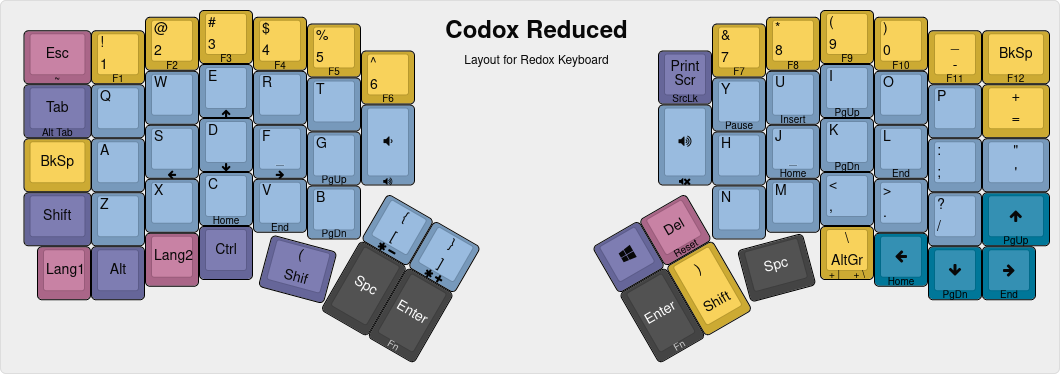
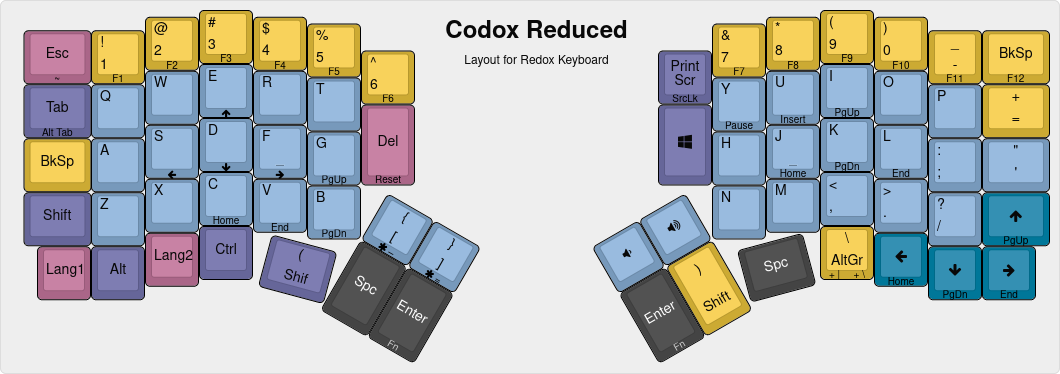
codox reduced:rearranging volume keys

diff --git a/Codox_Reduced/source_colemak/keymap.c b/Codox_Reduced/source_colemak/keymap.c
@@ -1,6 +1,21 @@
 #include QMK_KEYBOARD_H
 
+enum custom_keycodes {
+    MACRO_F3_G
+};
+
+bool process_record_user(uint16_t keycode, keyrecord_t * record) {
+    switch (keycode) {
+        case MACRO_F3_G:
+            if (record->event.pressed) {
+                SEND_STRING(SS_DOWN(X_F3) SS_DOWN(X_G) SS_UP(X_G) SS_UP(X_F3));
+            }
+            break;
+    }
+    return true;
+};
+
 const uint16_t PROGMEM keymaps[][MATRIX_ROWS][MATRIX_COLS] = {
-	[0] = LAYOUT(KC_GESC,KC_1,KC_2,KC_3,KC_4,KC_5,KC_7,KC_8,KC_9,KC_0,KC_MINS,KC_BSPC,KC_TAB,KC_Q,KC_W,KC_F,KC_P,KC_G,KC_6,KC_PSCR,KC_J,KC_L,KC_U,KC_Y,KC_SCLN,KC_EQL,KC_BSPC,KC_A,KC_R,KC_S,KC_T,KC_D,KC_VOLD,KC_VOLU,KC_H,KC_N,KC_E,KC_I,KC_O,KC_QUOT,KC_LSFT,KC_Z,KC_X,KC_C,KC_V,KC_B,KC_LBRC,KC_RBRC,KC_LGUI,KC_DEL,KC_K,KC_M,KC_COMM,KC_DOT,KC_SLSH,KC_UP,KC_HAEN,KC_LALT,LCTL(KC_LGUI),KC_LCTL,KC_LSPO,KC_SPC,LT(1,KC_ENT),LT(1,KC_ENT),KC_RSPC,KC_SPC,RALT_T(KC_BSLS),KC_LEFT,KC_DOWN,KC_RGHT),
-	[1] = LAYOUT(KC_GRV,KC_F1,KC_F2,KC_F3,KC_F4,KC_F5,KC_F7,KC_F8,KC_F9,KC_F10,KC_F11,KC_F12,LALT_T(KC_TAB),KC_NO,KC_DEL,KC_UP,LCTL(KC_E),KC_NO,KC_F6,KC_SLCK,KC_PAUS,KC_INS,KC_PGUP,KC_NO,KC_NO,KC_BSLS,KC_TRNS,KC_NO,KC_LEFT,KC_DOWN,KC_RGHT,KC_PGUP,KC_VOLU,KC_MUTE,KC_NO,KC_HOME,KC_PGDN,KC_END,KC_NO,KC_TRNS,KC_TRNS,KC_NO,KC_NO,KC_HOME,KC_END,KC_PGDN,LCTL(KC_MINS),LCTL(KC_EQL),KC_TRNS,RESET,KC_NO,KC_NO,KC_TRNS,KC_TRNS,KC_TRNS,KC_PGUP,KC_TRNS,KC_TRNS,KC_TRNS,KC_TRNS,KC_TRNS,KC_TRNS,KC_TRNS,KC_TRNS,KC_TRNS,KC_TRNS,RALT(KC_BSLS),KC_HOME,KC_PGDN,KC_END)
+    [0] = LAYOUT(KC_GESC,KC_1,KC_2,KC_3,KC_4,KC_5,KC_7,KC_8,KC_9,KC_0,KC_MINS,KC_BSPC,KC_TAB,KC_Q,KC_W,KC_F,KC_P,KC_G,KC_6,KC_PSCR,KC_J,KC_L,KC_U,KC_Y,KC_SCLN,KC_EQL,KC_BSPC,KC_A,KC_R,KC_S,KC_T,KC_D,KC_DEL,KC_LGUI,KC_H,KC_N,KC_E,KC_I,KC_O,KC_QUOT,KC_LSFT,KC_Z,KC_X,KC_C,KC_V,KC_B,KC_LBRC,KC_RBRC,KC_VOLD,KC_VOLU,KC_K,KC_M,KC_COMM,KC_DOT,KC_SLSH,KC_UP,KC_HAEN,KC_LALT,LCTL(KC_LGUI),KC_LCTL,KC_LSPO,KC_SPC,LT(1,KC_ENT),LT(1,KC_ENT),KC_RSPC,KC_SPC,RALT_T(KC_BSLS),KC_LEFT,KC_DOWN,KC_RGHT),
+    [1] = LAYOUT(KC_GRV,KC_F1,KC_F2,KC_F3,KC_F4,KC_F5,KC_F7,KC_F8,KC_F9,KC_F10,KC_F11,KC_F12,LALT_T(KC_TAB),KC_GRV,KC_DEL,KC_UP,LCTL(KC_E),MACRO_F3_G,KC_F6,KC_SLCK,KC_PAUS,KC_INS,KC_PGUP,KC_NO,KC_NO,KC_BSLS,KC_TRNS,KC_NO,KC_LEFT,KC_DOWN,KC_RGHT,KC_PGUP,RESET,KC_NO,KC_NO,KC_HOME,KC_PGDN,KC_END,KC_NO,KC_TRNS,KC_TRNS,KC_NO,KC_NO,KC_HOME,KC_END,KC_PGDN,LCTL(KC_MINS),LCTL(KC_EQL),KC_TRNS,KC_TRNS,KC_NO,KC_NO,KC_TRNS,KC_TRNS,KC_TRNS,KC_PGUP,KC_TRNS,KC_TRNS,KC_TRNS,KC_TRNS,KC_TRNS,KC_TRNS,KC_TRNS,KC_TRNS,KC_TRNS,KC_TRNS,RALT(KC_BSLS),KC_HOME,KC_PGDN,KC_END)
 };

diff --git a/Codox_Reduced/source_qwerty/keymap.c b/Codox_Reduced/source_qwerty/keymap.c
@@ -17,6 +17,6 @@ bool process_record_user(uint16_t keycode, keyrecord_t * record) {
 };
 
 const uint16_t PROGMEM keymaps[][MATRIX_ROWS][MATRIX_COLS] = {
-	[0] = LAYOUT(KC_GESC,KC_1,KC_2,KC_3,KC_4,KC_5,KC_7,KC_8,KC_9,KC_0,KC_MINS,KC_BSPC,KC_TAB,KC_Q,KC_W,KC_E,KC_R,KC_T,KC_6,KC_PSCR,KC_Y,KC_U,KC_I,KC_O,KC_P,KC_EQL,KC_BSPC,KC_A,KC_S,KC_D,KC_F,KC_G,KC_VOLD,KC_VOLU,KC_H,KC_J,KC_K,KC_L,KC_SCLN,KC_QUOT,KC_LSFT,KC_Z,KC_X,KC_C,KC_V,KC_B,KC_LBRC,KC_RBRC,KC_LGUI,KC_DEL,KC_N,KC_M,KC_COMM,KC_DOT,KC_SLSH,KC_UP,KC_HAEN,KC_LALT,LCTL(KC_LGUI),KC_LCTL,KC_LSPO,KC_SPC,LT(1,KC_ENT),LT(1,KC_ENT),KC_RSPC,KC_SPC,RALT_T(KC_BSLS),KC_LEFT,KC_DOWN,KC_RGHT),
-	[1] = LAYOUT(KC_GRV,KC_F1,KC_F2,KC_F3,KC_F4,KC_F5,KC_F7,KC_F8,KC_F9,KC_F10,KC_F11,KC_F12,LALT_T(KC_TAB),KC_GRV,KC_DEL,KC_UP,LCTL(KC_K),MACRO_F3_G,KC_F6,KC_SLCK,KC_PAUS,KC_INS,KC_PGUP,KC_NO,KC_NO,KC_BSLS,KC_TRNS,KC_NO,KC_LEFT,KC_DOWN,KC_RGHT,KC_PGUP,KC_VOLU,KC_MUTE,KC_NO,KC_HOME,KC_PGDN,KC_END,KC_NO,KC_TRNS,KC_TRNS,KC_NO,KC_NO,KC_HOME,KC_END,KC_PGDN,LCTL(KC_MINS),LCTL(KC_EQL),KC_TRNS,RESET,KC_NO,KC_NO,KC_TRNS,KC_TRNS,KC_TRNS,KC_PGUP,KC_TRNS,KC_TRNS,KC_TRNS,KC_TRNS,KC_TRNS,KC_TRNS,KC_TRNS,KC_TRNS,KC_TRNS,KC_TRNS,RALT(KC_BSLS),KC_HOME,KC_PGDN,KC_END)
+	[0] = LAYOUT(KC_GESC,KC_1,KC_2,KC_3,KC_4,KC_5,KC_7,KC_8,KC_9,KC_0,KC_MINS,KC_BSPC,KC_TAB,KC_Q,KC_W,KC_E,KC_R,KC_T,KC_6,KC_PSCR,KC_Y,KC_U,KC_I,KC_O,KC_P,KC_EQL,KC_BSPC,KC_A,KC_S,KC_D,KC_F,KC_G,KC_DEL,KC_LGUI,KC_H,KC_J,KC_K,KC_L,KC_SCLN,KC_QUOT,KC_LSFT,KC_Z,KC_X,KC_C,KC_V,KC_B,KC_LBRC,KC_RBRC,KC_VOLD,KC_VOLU,KC_N,KC_M,KC_COMM,KC_DOT,KC_SLSH,KC_UP,KC_HAEN,KC_LALT,LCTL(KC_LGUI),KC_LCTL,KC_LSPO,KC_SPC,LT(1,KC_ENT),LT(1,KC_ENT),KC_RSPC,KC_SPC,RALT_T(KC_BSLS),KC_LEFT,KC_DOWN,KC_RGHT),
+	[1] = LAYOUT(KC_GRV,KC_F1,KC_F2,KC_F3,KC_F4,KC_F5,KC_F7,KC_F8,KC_F9,KC_F10,KC_F11,KC_F12,LALT_T(KC_TAB),KC_GRV,KC_DEL,KC_UP,LCTL(KC_E),MACRO_F3_G,KC_F6,KC_SLCK,KC_PAUS,KC_INS,KC_PGUP,KC_NO,KC_NO,KC_BSLS,KC_TRNS,KC_NO,KC_LEFT,KC_DOWN,KC_RGHT,KC_PGUP,RESET,KC_NO,KC_NO,KC_HOME,KC_PGDN,KC_END,KC_NO,KC_TRNS,KC_TRNS,KC_NO,KC_NO,KC_HOME,KC_END,KC_PGDN,LCTL(KC_MINS),LCTL(KC_EQL),KC_TRNS,KC_TRNS,KC_NO,KC_NO,KC_TRNS,KC_TRNS,KC_TRNS,KC_PGUP,KC_TRNS,KC_TRNS,KC_TRNS,KC_TRNS,KC_TRNS,KC_TRNS,KC_TRNS,KC_TRNS,KC_TRNS,KC_TRNS,RALT(KC_BSLS),KC_HOME,KC_PGDN,KC_END)
 };
